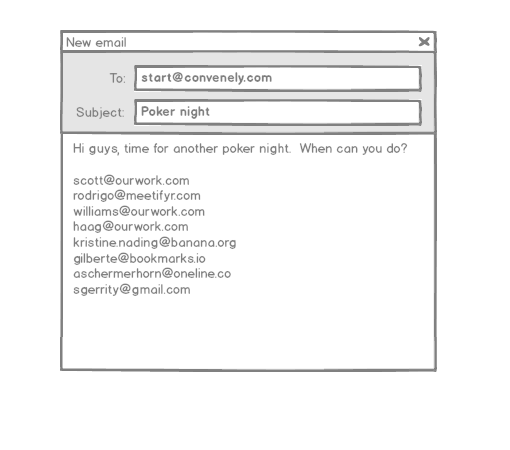
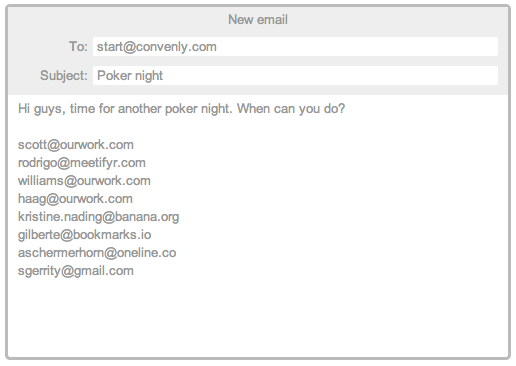
New images

Changed region(s): [[0.0, 0.0, 1.0, 0.9918]]

diff --git a/assets/mock-email.html b/assets/mock-email.html
@@ -12,11 +12,12 @@
 			margin-top: 50px;
 			width: 500px;
 			height: 350px;
-			border: 3px #eee solid;
-			border-radius: 5px;
+			border: 3px #bbb solid;
+			border-radius: 10px;
 			font-family: Arial;
 			font-size: 13px;
-			color: #bbb;
+			color: #999;
+			overflow: hidden;
 		}
 
 		.header{
@@ -25,7 +26,7 @@
 
 		.header-title{
 			text-align: center;
-			padding: 2px 0px 5px 0px;
+			padding: 5px 0px 10px 0px;
 		}
 
 		.header-row{
@@ -52,11 +53,37 @@
 			margin: 5px 10px;
 			line-height: 1.4em;
 		}
+
+		.body-text{
+			float: left;
+			margin-top: 7px;
+		}
+
+		#start-mail{
+		}
+
+		#started-mail{
+			height: 460px;
+		}
+
+		#started-table{
+			float: right;
+			width: 240px;
+		}
+
+		#avail-mail{
+			height: 460px;
+		}
+
+		#avail-table{
+			float: right;
+			width: 240px;
+		}
 	</style>
 </head>
  
 <body>
-	<div class="mail">
+	<div class="mail" id="start-mail">
 		<div class="header">
 			<div class="header-title">
 				New email
@@ -64,14 +91,6 @@
 			<div class="header-row">
 				<div class="header-label">
 					To:
-				</div>
-				<div class="header-field">
-					start@convenly.com
-				</div>
-			</div>
-			<div class="header-row">
-				<div class="header-label">
-					From:
 				</div>
 				<div class="header-field">
 					start@convenly.com
@@ -99,6 +118,87 @@ gilberte@bookmarks.io<br/>
 aschermerhorn@oneline.co<br/> 
 sgerrity@gmail.com<br/> 
  
+ 		</div>
+	</div>
+
+	<div class="mail" id="started-mail">
+		<div class="header">
+			<div class="header-title">
+				Re: Poker night
+			</div>
+			<div class="header-row">
+				<div class="header-label">
+					To:
+				</div>
+				<div class="header-field">
+					scott@ourwork.com
+				</div>
+			</div>
+			<div class="header-row">
+				<div class="header-label">
+					From:
+				</div>
+				<div class="header-field">
+					poker-night@convenly.com
+				</div>
+			</div>
+			<div class="header-row">
+				<div class="header-label">
+					Subject:
+				</div>
+				<div class="header-field">
+					Re: Poker night
+				</div>
+			</div>
+		</div>
+		<div class="body">
+			<div class="body-text">
+				Hi guys, time for another poker night.<br/> When can you do?
+
+				<br/> 
+	 		</div>
+			<img id="started-table" src="startedtable.png"/>
+ 		</div>
+	</div>
+
+	<div class="mail" id="avail-mail">
+		<div class="header">
+			<div class="header-title">
+				Re: Poker night
+			</div>
+			<div class="header-row">
+				<div class="header-label">
+					To:
+				</div>
+				<div class="header-field">
+					scott@ourwork.com
+				</div>
+			</div>
+			<div class="header-row">
+				<div class="header-label">
+					From:
+				</div>
+				<div class="header-field">
+					poker-night@convenly.com
+				</div>
+			</div>
+			<div class="header-row">
+				<div class="header-label">
+					Subject:
+				</div>
+				<div class="header-field">
+					Re: Poker night
+				</div>
+			</div>
+		</div>
+		<div class="body">
+			<div class="body-text">
+				Ok, looks like next Thursday is best for </br>
+				 everyone, see you around 8.</br>
+				 </br>
+				...and don't forget to bring chips!
+			</div>
+			<img id="avail-table" src="availtable.png"/>
  		</div>
 	</div>
 </body>

diff --git a/views/index.html b/views/index.html
@@ -53,43 +53,33 @@
       <h3>How does it work?</h3> 
       <div class="row-fluid marketing">
         <div class="span6">
-              <h4>1. Send an email to start@convenely.com.</h4>
-              <h6>Include a subject and message then list the email addresses of people you'd like to invite.</h6>
+              <h4>1. Send an email to start@convenely.com</h4>
+              <h6>A single email is all it takes to start arranging your event.  Include a subject and message describing the event then list the email addresses of everyone you want to invite.</h6>
         </div>
         <div class="span6">
                <img src="/images/popup1.png"/>
         </div>
       </div>
       <div class="row-fluid marketing">
+        <div class="span6 pull-right">
+              <h4>2. Reply with when you're available.</h4>
+              <h6>We create a private email list for your event and mail everyone about it.  As people reply with their availability we keep track and include it in every message.</h6>
+        </div>
         <div class="span6">
               <div class="image-container">
                <img src="/images/popup2.png"/>
             </div>
         </div>
-        <div class="span6">
-              <h4>2. Convenely creates a private mailing list and sends the message to everyone who's invited.</h4>
-        </div>
       </div>
       <div class="row-fluid marketing">
         <div class="span6">
-              <h4>3. As people reply with when they're free we keep track and include it in every message.</h4>               
+              <h4>3. Everyone sees the whole picture.</h4>          
+              <h6>It's that simple.  A private email list that keeps track of when everybody is free.  And since it's all done over email you can use it from anywhere on any device.</6>
         </div>
-        <div class="span6">
-              <ul>
-                <li>"I can do any Tuesday or Wednesday."</li>
-                <li>"Any day next week is good for me."</li>
-                <li>"I can only do the 27th or 1st."</li>
-              </ul>
-        </div>
-      </div>
-      <div class="row-fluid marketing">
         <div class="span6">
               <div class="image-container">
                  <img src="/images/popup3.png"/>
               </div>
-        </div>
-        <div class="span6">
-              <h4>4. Easy. And it's all done through email from any device!</h4>
         </div>
       </div>
 

diff --git a/public/stylesheets/index.css b/public/stylesheets/index.css
@@ -1,14 +1,14 @@
 h1,h2,h3,h4,h5,h6{font-weight:normal;}
 body{padding-top:20px;padding-bottom:40px;font-family:'Open Sans',sans-serif;}
-.container-narrow{margin:0 auto;max-width:700px;}
+.container-narrow{margin:0 auto;max-width:825px;}
 .container-narrow>hr{margin:30px 0;}
 .jumbotron{margin:40px 0;text-align:center;}
 .jumbotron h1{font-size:35px;line-height:1.2em;color:##4c4c4c;}
 .jumbotron .btn{font-size:21px;padding:14px 24px;}
 .marketing{margin:10px 0;}
 .marketing p+h4{margin-top:28px;}
-.marketing h4{font-size:17px;color:#737373;line-height:1.6em;}
-.marketing h6{font-size:14px;color:#a0a0a0;height:40px;line-height:1.8em;}
+.marketing h4{font-size:21px;color:#737373;line-height:1.6em;margin-top:80px;}
+.marketing h6{font-size:15px;color:#a0a0a0;line-height:1.5em;}
 .lead{font-size:20px;color:#999;}
 .marketing ul{margin-top:40px;}
 .marketing li{font-family:Arial;list-style:none;font-size:16px;color:#a0a0a0;line-height:2.4em;font-style:italic;}

diff --git a/public/stylesheets/index.less b/public/stylesheets/index.less
@@ -12,7 +12,7 @@ body {
 /* Custom container */
 .container-narrow {
 	margin: 0 auto;
-	max-width: 700px;
+	max-width: 825px;
 }
 .container-narrow > hr {
 	margin: 30px 0;
@@ -43,16 +43,16 @@ body {
 }
 
 .marketing h4 {
-	font-size: 17px;
+	font-size: 21px;
 	color: rgba(115,115,115,1.0);
 	line-height: 1.6em;
+	margin-top: 80px;
 }
 
 .marketing h6 {
-	font-size: 14px;
+	font-size: 15px;
 	color: rgba(160,160,160	,1.0);
-	height: 40px;
-	line-height: 1.8em;
+	line-height: 1.5em;
 }
 
 .lead{
